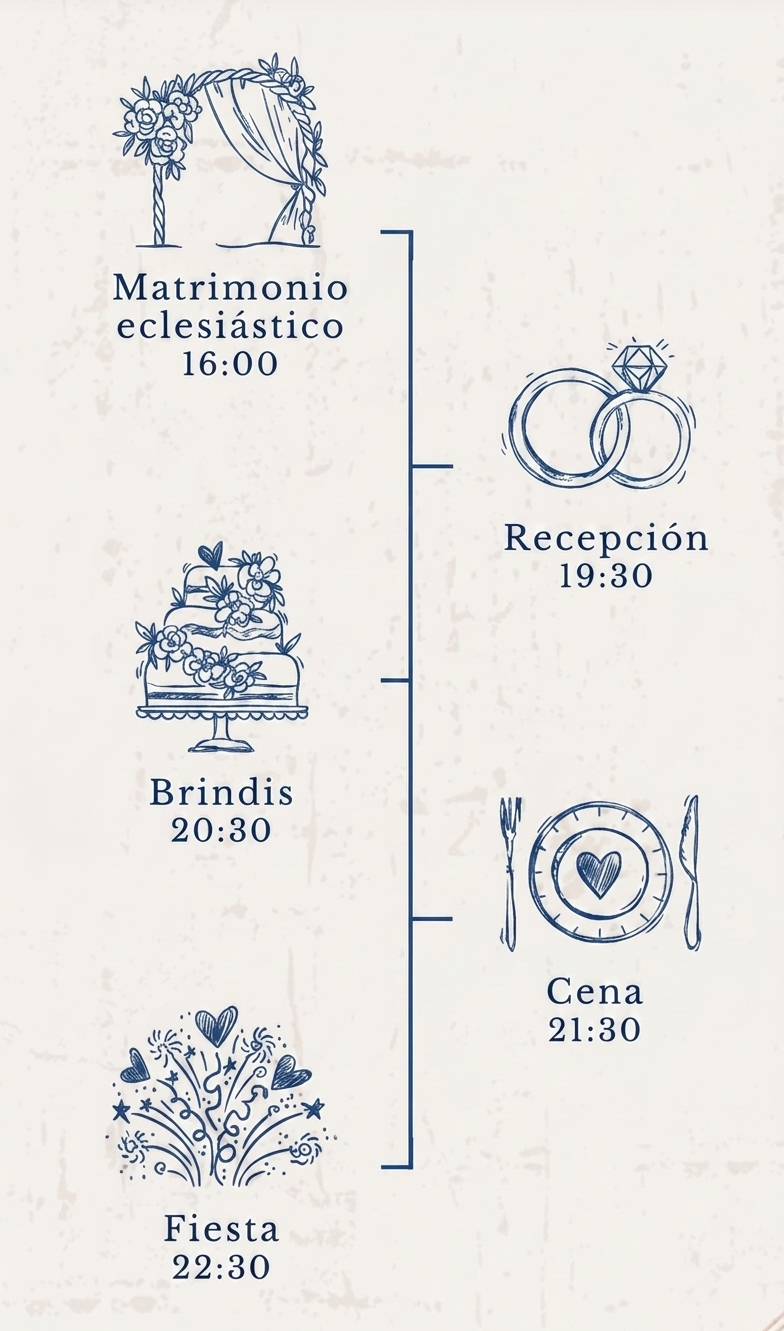
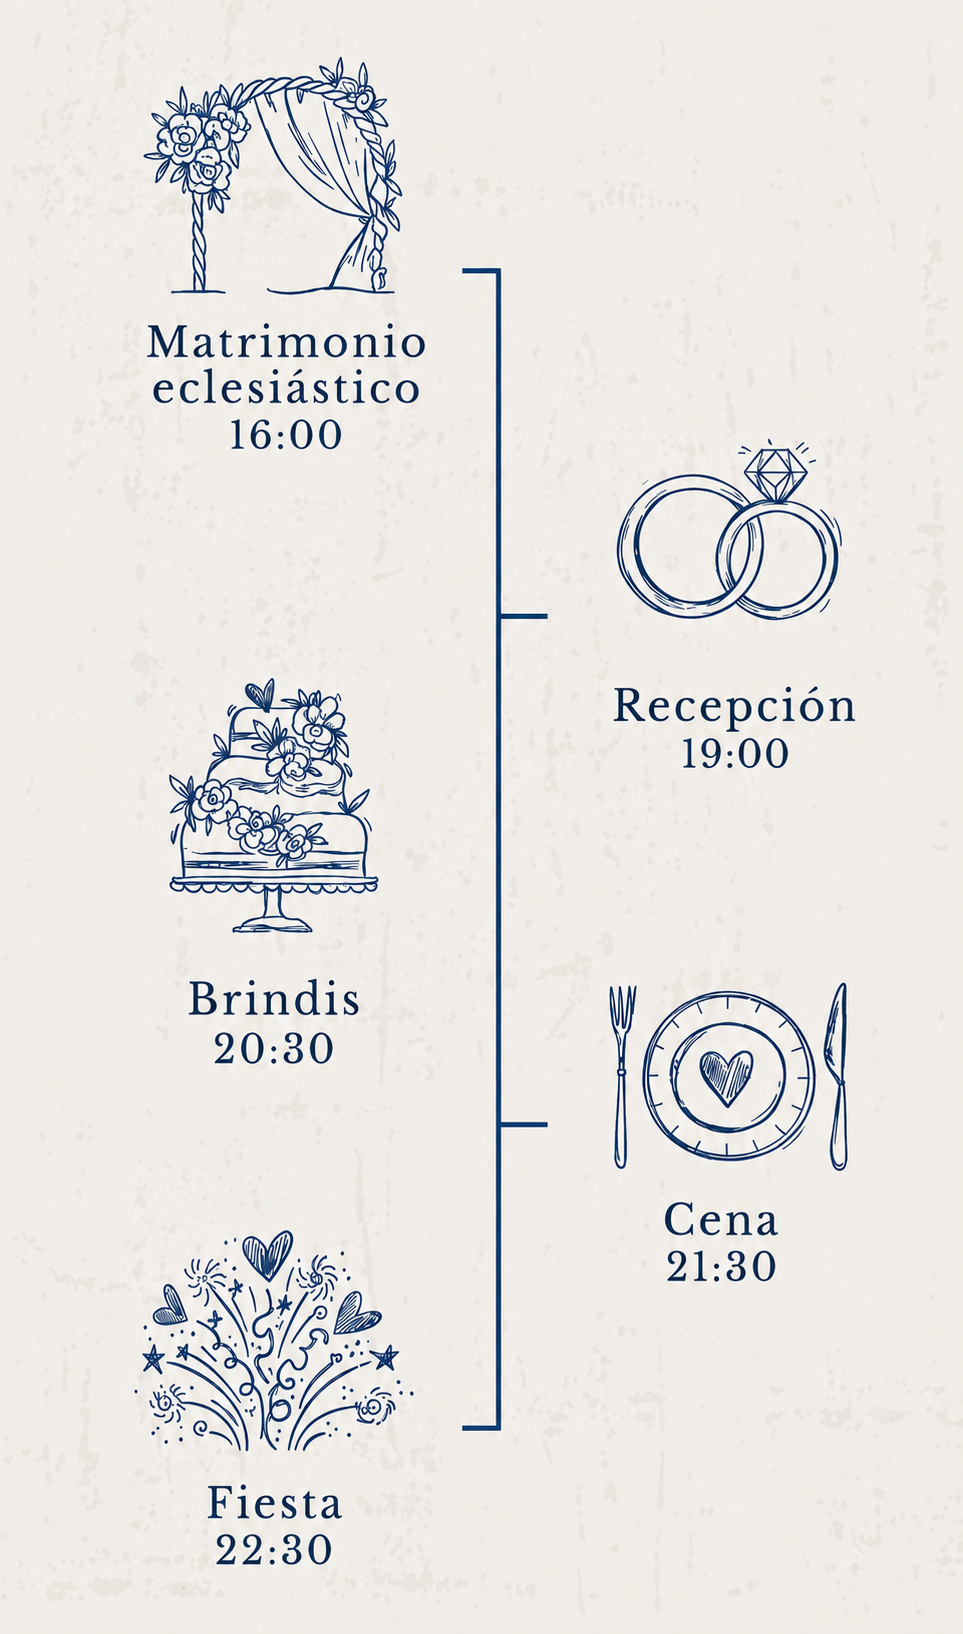
first commitnn

diff --git a/index.html b/index.html
@@ -1203,7 +1203,7 @@
                                             <div id="e-n-menu-title-1802"
                                                 class="e-n-menu-title elementor-animation-shrink">
                                                 <a class="e-n-menu-title-container e-focus e-link"
-                                                    href="https://maps.app.goo.gl/V59NAdGpQH5XNtbz7" target="_blank">
+                                                    href="https://maps.app.goo.gl/6ihaeifLfnQs9Rtu6" target="_blank">
                                                     <span class="e-n-menu-title-text">
                                                         Recepción </span>
                                                 </a>
@@ -1473,8 +1473,7 @@
                                             data-id="6cdaa5b" data-element_type="widget" data-e-type="widget"
                                             data-widget_type="heading.default">
                                             <div class="elementor-widget-container">
-                                                <h2 class="elementor-heading-title elementor-size-default">Sala de
-                                                    Eventos San Sebastián<br>19:30 pm</h2>
+                                                <h2 class="elementor-heading-title elementor-size-default">Hotel "Amira"<br>19:00 pm</h2>
                                             </div>
                                         </div>
                                         <div class="elementor-element elementor-element-2e0d7de elementor-align-center elementor-mobile-align-center elementor-invisible elementor-widget elementor-widget-button"
@@ -1484,7 +1483,7 @@
                                             <div class="elementor-widget-container">
                                                 <div class="elementor-button-wrapper">
                                                     <a class="elementor-button elementor-button-link elementor-size-sm elementor-animation-shrink"
-                                                        href="https://maps.app.goo.gl/Na9Awtr4kf8dAJqX9"
+                                                        href="https://maps.app.goo.gl/6ihaeifLfnQs9Rtu6"
                                                         target="_blank">
                                                         <span class="elementor-button-content-wrapper">
                                                             <span class="elementor-button-text">Google Maps</span>
@@ -2843,14 +2842,15 @@
                                                                     ¡Gracias! </h3>
 
                                                                 <div class="elementor-flip-box__layer__description">
-
+Si desean hacernos un regalo, pueden hacerlo mediante transferencia bancaria: <br> <br>
 
                                                                     Banco Pichincha<br>
                                                                     Cuenta de Ahorros <br>
                                                                     Nro. Cuenta: 2210800573<br>
                                                                     Cédula: 2450357948<br>
-                                                                    Nombre: Zulema Yunda <br> </div>
-
+                                                                    Nombre: Zulema Yunda <br> <br>
+También pueden entregarnos su obsequio en sobre cerrado. <br>
+</div>
                                                             </div>
                                                         </div>
                                                     </div>
